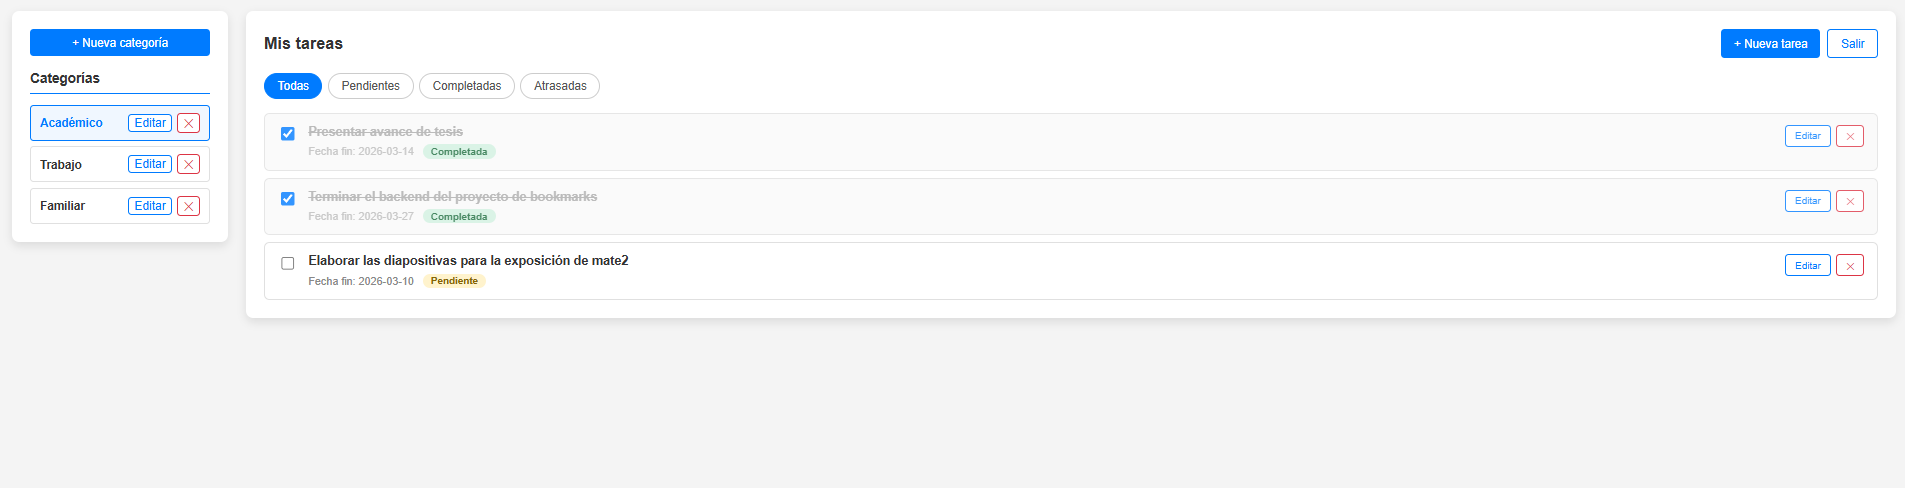
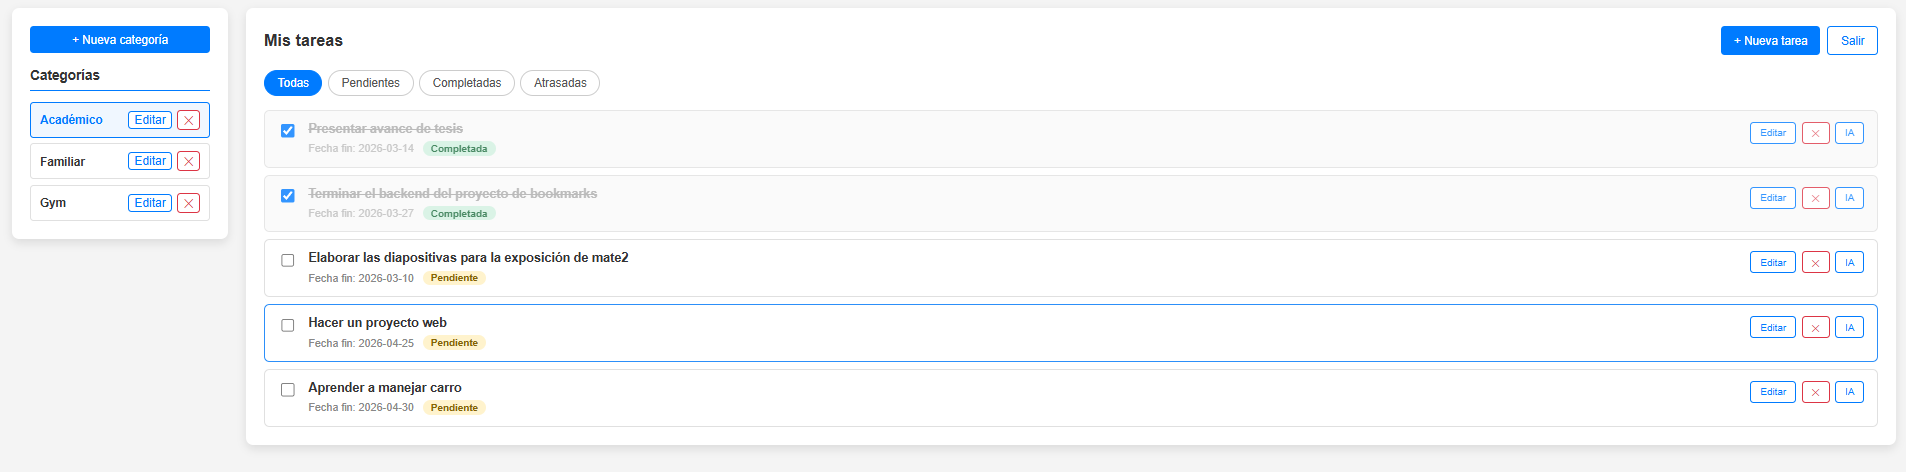
actualización del README y mejora del estilo del modal de IA subtareas

diff --git a/templates/tareas/dashboard.html b/templates/tareas/dashboard.html
@@ -374,6 +374,7 @@
   }
   .form-group {
       margin-bottom: 14px;
+      margin-top: 25px;
   }
   .form-label {
       display: block;
@@ -426,6 +427,33 @@
     border: 1px solid #ccc;
     border-radius: 4px;
     background: #fafafa;
+    }
+    .modal-content button[type="button"] {
+      display: block;
+      margin: 20px auto 0;
+      background-color: var(--blue);
+      color: white;
+      border: none;
+      padding: 10px 28px;
+      border-radius: 4px;
+      cursor: pointer;
+      font-size: 14px;
+      transition: background-color 0.2s;
+    }
+    .modal-content button[type="button"]:hover {
+        background-color: var(--blue-dark);
+    }
+    #url_fuente {
+    width: 95%;          
+    max-width: 600px;     
+    padding: 10px;        
+    font-size: 14px;      
+    border: 1px solid #ccc; 
+    border-radius: 5px;   
+    box-shadow: inset 0 1px 3px rgba(0,0,0,0.1); 
+    }
+    .subtareas-group {
+    margin-top: 40px;
     }
 
   </style>
@@ -519,11 +547,10 @@
 
         <!-- Nuevo campo para URL -->
         <div class="form-group">
-            <label class="form-label" for="url_fuente">Fuente (URL opcional)</label>
+            <label class="form-label" for="url_fuente">Fuente URL (opcional)</label>
             <input type="url" id="url_fuente" name="url_fuente"
                 placeholder="https://ejemplo.com/articulo"
                 class="form-control">
-            <small class="form-text">Puedes dejarlo vacío o ingresar una URL válida.</small>
         </div>
 
         <!-- Botón para ejecutar PATCH -->
@@ -533,8 +560,8 @@
             </button>
         </div>
 
-        <div class="form-group">
-            <label class="form-label">Lista de subtareas</label>
+        <div class="form-group subtareas-group">
+            <label class="form-label">Lista de subtareas sugeridas</label>
             <pre id="listaSubtareasId"></pre>
         </div>
 
@@ -1006,7 +1033,7 @@
       try {
         const res = await api.get(`/tareas/${tareaId}/`);
         const tarea = res.data;   
-        document.getElementById("resSubIAModalTitulo").innerText = tarea.descripcion;
+        document.getElementById("resSubIAModalTitulo").innerText = "Tarea: " + tarea.descripcion;
         document.getElementById("listaSubtareasId").textContent = tarea.subtareas_ia;
         
       } catch (error) {

diff --git a/README.md b/README.md
@@ -2,8 +2,7 @@
 
 # Informational Portal with Task Manager
 
-A web application combining personal task management with real-time weather and news 
-information from Lima, built with Django REST Framework and JWT authentication.
+A web application combining personal task management with real-time weather and news from Lima. Built with Django REST Framework and JWT authentication, it now includes AI-powered subtask generation using RAG (Retrieval-Augmented Generation) with Google Gemini, ChromaDB vector database, and multilingual sentence-transformers.
 
 ---
 
@@ -24,6 +23,9 @@ information from Lima, built with Django REST Framework and JWT authentication.
 ### Add Task
 ![Add task](screenshots/añadirTarea.png)
 
+### Generate list of subtasks using AI
+![Subtasks](screenshots/listaSubtareas.png)
+
 ---
 
 ## Features
@@ -35,6 +37,9 @@ information from Lima, built with Django REST Framework and JWT authentication.
 - **Filters** by task status (All / Pending / Completed / Overdue) and by category
 - **Responsive interface** built with vanilla HTML/CSS/JavaScript
 - **Automatic token refresh**
+- **AI-powered subtask generation**: automatic creation of subtasks using Google Gemini LLM.
+- **RAG (Retrieval-Augmented Generation)**: enhance subtasks with content from external URLs, using semantic search with ChromaDB and multilingual embeddings.
+
 
 ---
 
@@ -51,6 +56,13 @@ information from Lima, built with Django REST Framework and JWT authentication.
 - **CSS3** — Styles
 - **JavaScript (Vanilla)** — Client-side logic
 - **Fetch API** — HTTP requests
+
+### AI & RAG Pipeline
+- **Google Gemini 2.5 Flash Lite** — LLM for subtask generation (free tier, 10 requests/day)
+- **ChromaDB** — Persistent vector database for semantic search
+- **Sentence-Transformers** — Multilingual embeddings (`paraphrase-multilingual-MiniLM-L12-v2`)
+- **LangChain Community** — Web scraping and text splitting (WebBaseLoader, RecursiveCharacterTextSplitter)
+
 
 ---
 
@@ -73,6 +85,26 @@ The application retrieves real-time data from:
   - Create a `.env` file in the project root and define:
       APITUBE_API_KEY="your_api_key"
   - Make sure your application reads this variable from the environment.
+
+### AI & RAG
+
+The application uses **Retrieval-Augmented Generation (RAG)** to generate intelligent subtasks:
+
+1. **URL Processing**: Accepts an external URL related to the task.
+2. **Content Extraction**: Scrapes and cleans the webpage content.
+3. **Semantic Search**: Splits text into chunks and generates embeddings using a multilingual model.
+4. **Context Retrieval**: Finds the most relevant chunks based on the task description.
+5. **Subtask Generation**: Sends the context to Google Gemini to produce actionable subtasks.
+
+**Components used**:
+- **Vector Database**: ChromaDB (persistent storage)
+- **Embeddings**: `paraphrase-multilingual-MiniLM-L12-v2` (supports Spanish and English)
+- **LLM**: Google Gemini 2.5 Flash Lite
+
+⚠ **Note**: To use the AI subtask feature you need a Google GenAI API key.
+- Sign up at [Google AI Studio](https://aistudio.google.com/).
+- Get your API key.
+- Add it to your `.env` file: GEMINI_API_KEY="your_api_key"
 
 ---
 
@@ -119,10 +151,33 @@ python manage.py runserver
    - Manage your tasks: create categories, add tasks, filter by status and category, 
    edit and delete.
 
+## AI-Powered Subtask Generation
+
+You can automatically generate a list of subtasks for each task using AI. After clicking the “IA” button, there are two options:
+
+### Basic mode (no URL)
+Click “Generar nuevas subtareas” button. The large language model (LLM) will create a logical breakdown based solely on the task description.
+
+### RAG mode (with URL)
+1. Provide a relevant URL.
+2. Click "Generate new subtasks".
+3. The system will:
+   - Scrape and process the URL content
+   - Find semantically relevant fragments
+   - Generate context-aware subtasks using Gemini
+
+**Example**:
+- Task: *"Learn to drive a car"*
+- URL: `http://chery.com.pe/blog/como-aprender-a-manejar-carro` 
+> 💡 **Tip**: For best results, use URLs from blogs, documentation, or news articles that do not require JavaScript rendering (e.g., MDN, Django docs, university sites).
+- Result: Detailed subtasks including legal requirements, vehicle familiarization, practice phases, and maintenance tips.
+
 ---
 
 ## Status
-Actively under development. Suggestions and contributions are welcome.
+✅ Core task management (CRUD, filters, JWT auth)  
+✅ Weather and news integration  
+✅ AI subtask generation (basic + RAG with external URLs)  
 
 ---
 
@@ -132,8 +187,7 @@ Actively under development. Suggestions and contributions are welcome.
 
 # Portal Informativo con Gestor de Tareas
 
-Una aplicación que combina gestión de tareas personales con información en tiempo real 
-de clima y noticias de Lima, construida con Django REST Framework y JWT para autenticación.
+Aplicación web que combina la gestión de tareas personales con el clima y las noticias de Lima en tiempo real. Construida con Django REST Framework y autenticación JWT, ahora incluye generación de subtareas con IA mediante RAG (Retrieval-Augmented Generation) con Google Gemini, la base de datos vectorial ChromaDB y embeddings multilingües de sentence-transformers.
 
 ---
 
@@ -154,6 +208,9 @@ de clima y noticias de Lima, construida con Django REST Framework y JWT para aut
 ### Añadir tarea
 ![Añadir tarea](screenshots/añadirTarea.png)
 
+### Generar lista de subtareas con IA
+![Subtareas](screenshots/listaSubtareas.png)
+
 ---
 
 ## Características
@@ -165,6 +222,9 @@ de clima y noticias de Lima, construida con Django REST Framework y JWT para aut
 -  **Filtros** por estado de tarea (Todas/Pendientes/Completadas/Atrasadas) y por categoría
 -  **Interfaz responsive** con HTML/CSS/JavaScript vanilla
 -  **Refresco automático** de tokens
+- **Generación de subtareas con IA**: creación automática de subtareas usando Google Gemini LLM.
+- **RAG (Retrieval-Augmented Generation)**: enriquece subtareas con contenido de URLs externas, usando búsqueda semántica con ChromaDB y embeddings multilingües.
+
 
 ---
 
@@ -181,6 +241,12 @@ de clima y noticias de Lima, construida con Django REST Framework y JWT para aut
 - **CSS3** - Estilos
 - **JavaScript (Vanilla)** - Lógica de cliente
 - **Fetch API** - Peticiones HTTP
+
+### Pipeline de IA y RAG
+- **Google Gemini 2.5 Flash Lite** — LLM para generación de subtareas (plan gratuito, 10 peticiones/día)
+- **ChromaDB** — Base de datos vectorial persistente para búsqueda semántica
+- **Sentence-Transformers** — Embeddings multilingües (`paraphrase-multilingual-MiniLM-L12-v2`)
+- **LangChain Community** — Web scraping y división de texto (WebBaseLoader, RecursiveCharacterTextSplitter)
 
 ---
 
@@ -201,6 +267,26 @@ de clima y noticias de Lima, construida con Django REST Framework y JWT para aut
   - Crea un archivo `.env` en la raíz del proyecto y define:
       APITUBE_API_KEY="tu_api_key"
   - Luego asegúrate de que tu aplicación lea esta variable desde el entorno.
+
+### IA y RAG
+
+La aplicación utiliza **Retrieval-Augmented Generation (RAG)** para generar subtareas inteligentes:
+
+1. **Procesamiento de URL**: Acepta una URL externa relacionada con la tarea.
+2. **Extracción de contenido**: Extrae y limpia el contenido de la página web.
+3. **Búsqueda semántica**: Divide el texto en fragmentos y genera embeddings con un modelo multilingüe.
+4. **Recuperación de contexto**: Encuentra los fragmentos más relevantes según la descripción de la tarea.
+5. **Generación de subtareas**: Envía el contexto a Google Gemini para producir subtareas accionables.
+
+**Componentes utilizados**:
+- **Base de datos vectorial**: ChromaDB (almacenamiento persistente)
+- **Embeddings**: `paraphrase-multilingual-MiniLM-L12-v2` (soporta español e inglés)
+- **LLM**: Google Gemini 2.5 Flash Lite
+
+⚠ **Nota**: Para usar la función de subtareas con IA necesitas una API key de Google GenAI.
+- Regístrate en [Google AI Studio](https://aistudio.google.com/).
+- Obtén tu API key.
+- Agrégala a tu archivo `.env`: GEMINI_API_KEY="tu_clave_api"
 
 ---
 
@@ -247,7 +333,30 @@ python manage.py runserver
    - Gestiona tus tareas: crear categorías, añadir tareas, filtrar por estado y 
    categoría, editar y eliminar.
 
+## Generación de subtareas usando IA
+
+Puedes generar automáticamente una lista de subtareas para cada tarea mediante IA. Tras hacer clic en el botón "IA", hay dos opciones:
+
+### Modo básico (sin URL)
+Haz clic en el botón «Generar nuevas subtareas». El modelo de lenguaje grande (LLM) creará un desglose lógico basándose únicamente en la descripción de la tarea.
+
+### Modo RAG (con URL)
+1. Introduzca una URL relevante.
+2. Haga clic en «Generar nuevas subtareas».
+3. El sistema:
+   - Extraerá y procesará el contenido de la URL
+   - Encontrará fragmentos semánticamente relevantes
+   - Generará subtareas contextuales utilizando Gemini
+
+**Ejemplo**:
+- Tarea: *«Aprender a conducir un coche»*
+- URL: `http://chery.com.pe/blog/como-aprender-a-manejar-carro` 
+> 💡 **Consejo**: Para obtener los mejores resultados, utiliza direcciones URL de blogs, documentación o artículos de noticias que no requieran la ejecución de JavaScript (por ejemplo, MDN, la documentación de Django o sitios web de universidades).
+- Resultado: Subtareas detalladas que incluyen requisitos legales, familiarización con el vehículo, fases de práctica y consejos de mantenimiento.
+
 ---
 
 ## Estado
-Proyecto en desarrollo activo. Se aceptan sugerencias y mejoras.
+✅ Gestor de tareas (CRUD, filtros, autenticación JWT)  
+✅ Integración de clima y noticias  
+✅ Generación de subtareas con IA (básico + RAG con URLs externas)  
